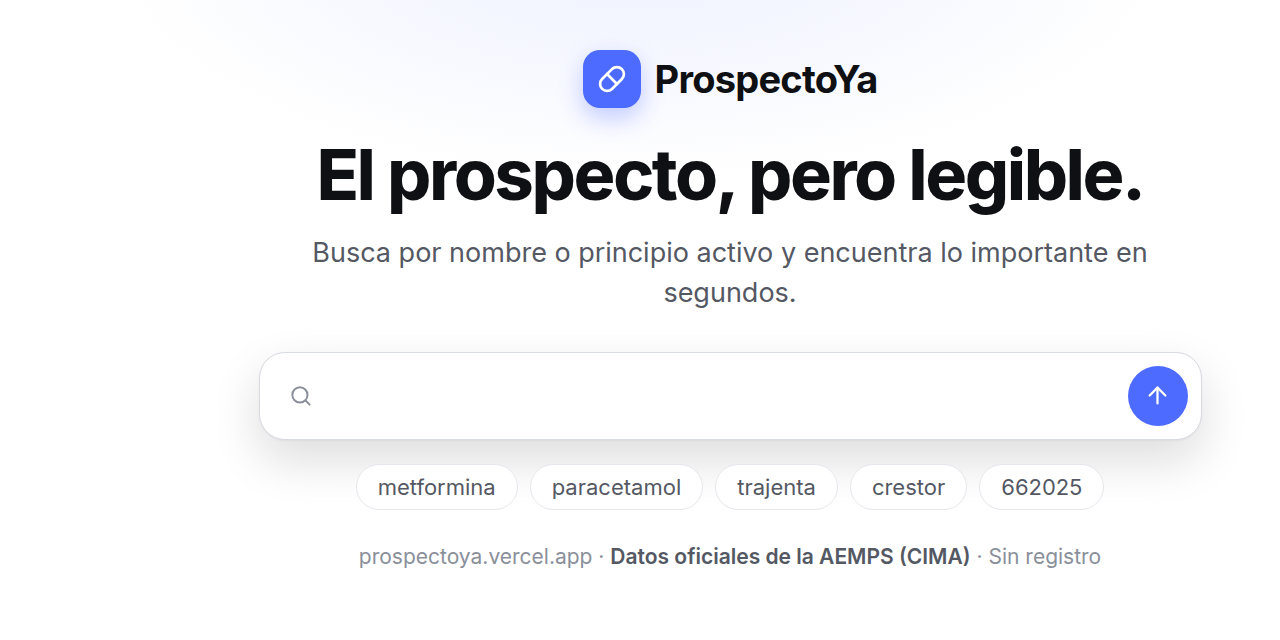
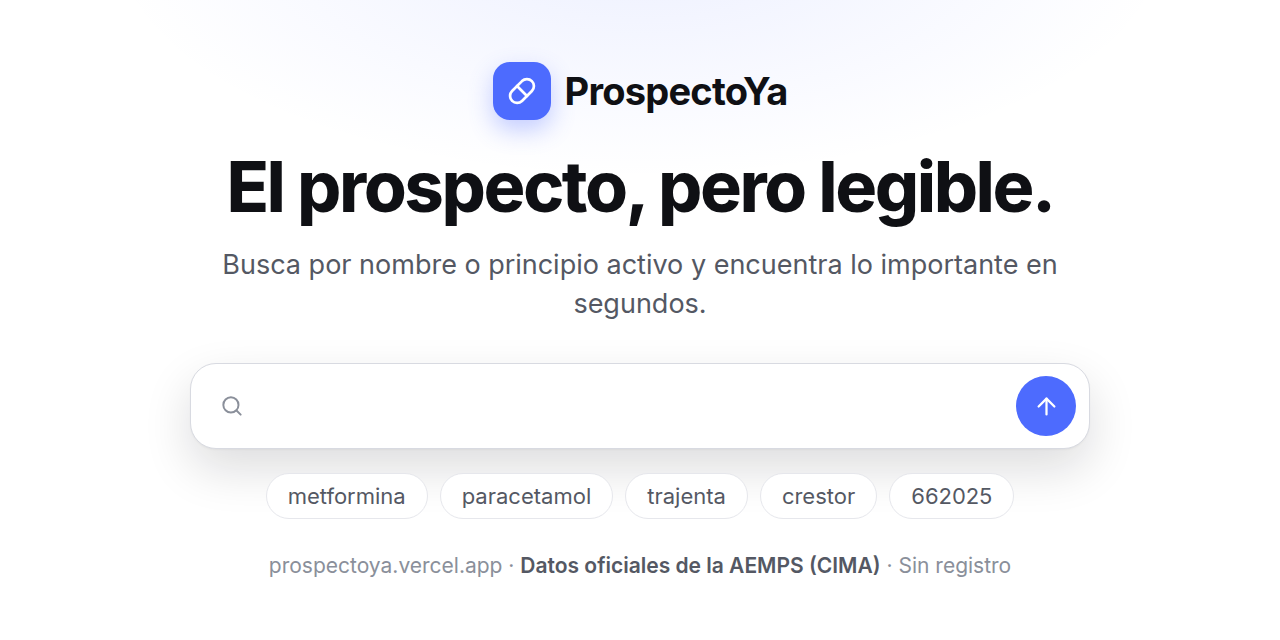
fix(compartir): centra la tarjeta del social preview
La tarjeta salia 90px a la derecha: a la maqueta le faltaba el reset
`* { box-sizing: border-box }` que si tiene styles.css, asi que .lienzo medía 1280
mas sus 180px de padding dentro de un lienzo de 1280 con overflow:hidden, y el
contenido se centraba en x=730. Medido con Chrome: los seis bloques iban a +90px
del centro de la IMAGEN y el lienzo a 1460x661.

- El aire vertical tambien estaba descompensado (51 arriba / 72 abajo) porque el
  primer bloque es un cuadrado y el ultimo es texto con su interlineado: se
  compensa con 21px de padding arriba. Ahora 61,9 / 61,9.
- test-paginas.js mide la maqueta con Chrome: lienzo 1280x640, los seis bloques
  centrados (0,5 px, respecto al centro de la IMAGEN, no al del .lienzo) y el aire
  equilibrado. Comprobado que sin el box-sizing falla dos veces (1460x661 y los
  seis a +90px).
- El PNG se regenera con el comando documentado; no hay que subir VERSION en
  sw.js porque la tarjeta no esta en la cascara (nunca se cachea).

diff --git a/tests/test-paginas.js b/tests/test-paginas.js
@@ -7,12 +7,15 @@
  *    existente, enlace a la ayuda que resuelve, y el tema elegido se guarda.
  *  - ayuda.html: sin errores, hereda el tema de la otra página (misma clave de
  *    localStorage), el botón funciona y el enlace al repositorio va al final.
+ *  - la maqueta del social preview: el lienzo mide 1280x640 y los bloques (marca,
+ *    titular, entradilla, buscador, chips y cierre) van centrados, con el mismo
+ *    aire arriba y abajo. Se sirve aquí para poder medirla con Chrome.
  *
  *   cd tests && node test-paginas.js
  */
 const fs = require("fs");
 const path = require("path");
-const { comprobar, resumen, leer, carpetaTemporal, copiar, navegador, domConChrome, leerDiag, campos, servirHttp } = require("./util");
+const { RAIZ, comprobar, resumen, leer, carpetaTemporal, copiar, navegador, domConChrome, leerDiag, campos, servirHttp } = require("./util");
 
 if (!navegador()) {
   console.log("OMITIDO: no encuentro Chrome/Chromium (define la variable CHROME con la ruta al ejecutable)");
@@ -125,6 +128,35 @@ const DIAG_AYUDA = `
   </script>
 `;
 
+// La maqueta del social preview (tests/maqueta-social-preview.html) se mide
+// aquí porque es donde hay Chrome: la tarjeta se genera a mano desde ella, así
+// que lo que se comprueba es que no se desmonte. Ya pasó una vez: sin
+// `box-sizing: border-box` (que sí tiene styles.css) el .lienzo medía 1280 más
+// sus 180px de padding, y la tarjeta salía 90px hacia la derecha.
+const DIAG_TARJETA = `
+  <pre id="diag" style="display:none"></pre>
+  <script>
+    const diag = document.getElementById("diag");
+    const log = (m) => { diag.textContent += m + "\\n"; };
+    const caja = (selector) => document.querySelector(selector).getBoundingClientRect();
+
+    window.addEventListener("load", () => {
+      const lienzo = caja(".lienzo");
+      // El centro bueno es el de la IMAGEN (el viewport), no el del .lienzo: si
+      // el padding lo estira, comparando con su propio centro no se vería nada.
+      const centro = window.innerWidth / 2;
+      log("lienzo=" + lienzo.width.toFixed(1) + "x" + lienzo.height.toFixed(1));
+      for (const [nombre, selector] of [["marca", ".marca"], ["h1", "h1"], ["entradilla", ".entradilla"], ["buscador", ".buscador"], ["chips", ".chips"], ["cierre", ".cierre"]]) {
+        const c = caja(selector);
+        log("desfase_" + nombre + "=" + (c.x + c.width / 2 - centro).toFixed(1));
+      }
+      log("aire_arriba=" + caja(".marca").y.toFixed(1));
+      log("aire_abajo=" + (lienzo.y + lienzo.height - (caja(".cierre").y + caja(".cierre").height)).toFixed(1));
+      log("listo=si");
+    });
+  </script>
+`;
+
 (async () => {
   const sitio = carpetaTemporal("paginas");
   copiar(sitio, FICHEROS);
@@ -136,6 +168,14 @@ const DIAG_AYUDA = `
   ]) {
     fs.writeFileSync(path.join(sitio, fichero), leer(fichero).replace("</body>", `${driver}</body>`));
   }
+
+  // La maqueta de la tarjeta social también se sirve (con su fuente) para poder
+  // medirla con Chrome, igual que las páginas.
+  fs.copyFileSync(path.join(RAIZ, "tests/inter-latin.woff2"), path.join(sitio, "inter-latin.woff2"));
+  fs.writeFileSync(
+    path.join(sitio, "maqueta.html"),
+    leer("tests/maqueta-social-preview.html").replace("</body>", `${DIAG_TARJETA}</body>`)
+  );
 
   const { url, cerrar } = await servirHttp(sitio);
 
@@ -172,6 +212,22 @@ const DIAG_AYUDA = `
     comprobar("tabla de atajos con 4 filas", ayuda.atajos === "4", ayuda.atajos);
     comprobar("cita la fuente de datos (AEMPS)", ayuda.cita_aemps === "si", ayuda.cita_aemps);
     comprobar("y el logo también está centrado aquí", centrado(ayuda.logo_desfase), ayuda.logo_desfase);
+
+    console.log("--- maqueta del social preview (1280x640) ---");
+    const tarjeta = campos(leerDiag(await domConChrome(`${url}/maqueta.html`, { ancho: 1280, alto: 640, presupuesto: 4000 })));
+    const bloques = ["marca", "h1", "entradilla", "buscador", "chips", "cierre"];
+    comprobar("la maqueta se mide entera", tarjeta.listo === "si", Object.keys(tarjeta).join(" "));
+    comprobar("el lienzo mide 1280x640 (el padding no lo estira)", tarjeta.lienzo === "1280.0x640.0", tarjeta.lienzo);
+    comprobar(
+      "los seis bloques van centrados (±0,5 px)",
+      bloques.every((nombre) => Math.abs(Number(tarjeta["desfase_" + nombre])) <= 0.5),
+      bloques.map((nombre) => `${nombre}:${tarjeta["desfase_" + nombre]}`).join(" ")
+    );
+    comprobar(
+      "el aire de arriba y el de abajo están equilibrados (±2 px)",
+      Math.abs(Number(tarjeta.aire_arriba) - Number(tarjeta.aire_abajo)) <= 2,
+      `${tarjeta.aire_arriba} / ${tarjeta.aire_abajo}`
+    );
   } finally {
     cerrar();
   }

diff --git a/tests/maqueta-social-preview.html b/tests/maqueta-social-preview.html
@@ -40,6 +40,12 @@
       --font: "Inter", system-ui, -apple-system, "Segoe UI", Roboto, "Helvetica Neue", Arial, sans-serif;
     }
 
+    /* El mismo reset que styles.css (línea 84). Sin esto, .lienzo mide 1280 más
+       sus 180px de padding (box-sizing content-box) dentro de un lienzo de 1280
+       con overflow:hidden: el contenido se centra en x=730 y la tarjeta sale
+       90px desplazada a la derecha. No quitar. */
+    * { box-sizing: border-box; }
+
     /* El lienzo es exactamente lo que se captura: 1280×640 */
     html, body { margin: 0; width: 1280px; height: 640px; overflow: hidden; }
     body {
@@ -55,7 +61,11 @@
       flex-direction: column;
       align-items: center;
       justify-content: center;
-      padding: 0 90px;
+      /* 21px de aire de más arriba: el primer bloque es un cuadrado (su tinta
+         llega al borde de la caja) y el último es texto (con su interlineado
+         debajo), así que centrando las cajas quedaban 21px de más abajo.
+         Medido sobre la tinta del PNG: sin esto, 51 arriba y 72 abajo. */
+      padding: 21px 90px 0;
     }
 
     /* --- Marca (igual que .brand de styles.css) --- */

diff --git a/tests/README.md b/tests/README.md
@@ -37,7 +37,7 @@ También se pueden lanzar directamente, que es útil al depurar:
 |---|---|---|
 | `test-html.js` | Estructura de las dos páginas: cabeceras, `meta description`, los 4 iconos, `styles.css`, `tema.js`, que todos los `<script src>` existen, las metaetiquetas `og:`/`twitter:` y el contenido y los enlaces de la ayuda (incluido que el repositorio es el último enlace). | Node + jsdom |
 | `test-busqueda.js` | El buscador completo en jsdom con `fetch` simulado: autocompletado con *debounce*, teclado (↑ ↓ Enter Esc), búsqueda por CN y por nº de registro, aviso con códigos incompletos, CN en diferido (una sola petición por `nregistro`, caché reutilizada) y CN de todos los envases en la ficha. | Node + jsdom |
-| `test-paginas.js` | Las dos páginas en Chrome real, servidas por HTTP (como en Vercel): sin errores de JS, `og:image` absoluta y con el fichero presente, enlace a la ayuda con HTTP 200, el tema se guarda y **se mantiene al pasar de una página a otra** (mismo perfil de Chrome), que la **cápsula del logo quede centrada** en su cuadrado (medido con `getBBox`), y la ayuda se lee como se espera. | Chrome/Chromium |
+| `test-paginas.js` | Las dos páginas en Chrome real, servidas por HTTP (como en Vercel): sin errores de JS, `og:image` absoluta y con el fichero presente, enlace a la ayuda con HTTP 200, el tema se guarda y **se mantiene al pasar de una página a otra** (mismo perfil de Chrome), que la **cápsula del logo quede centrada** en su cuadrado (medido con `getBBox`), y la ayuda se lee como se espera. Mide también la **maqueta del social preview**: el lienzo tiene que medir 1280×640 y los seis bloques ir centrados (±0,5 px), con el mismo aire arriba y abajo. | Chrome/Chromium |
 | `test-pwa.js` | Que la web se pueda **instalar como app** y funcione **sin conexión**: el manifest (JSON válido, `standalone`, colores que coinciden con `styles.css` y los iconos de 192 y 512 px), los iconos de verdad (los `maskable` opacos y con la marca dentro del 80% central que recortan los lanzadores), `sw.js` (cáscara completa, nada de la API de CIMA), el aviso de **versión nueva** con el `pwa.js` real en jsdom (avisa si la versión cambia, y **no** avisa si sólo cambia el control), y en Chrome real: registro, `clients.claim`, precache de la cáscara y una pasada **con el servidor apagado** en la que la página se sigue abriendo. | Node + jsdom + Chrome/Chromium |
 | `test-arriba.js` | El **botón de "volver arriba"** en las dos páginas: arranca oculto, aparece al bajar, al pulsarlo se le pide a la ventana subir al principio (`window.scrollTo` con `top: 0`, con y sin `prefers-reduced-motion`), el foco no se pierde, la URL no cambia y no se solapa con el aviso de versión. | Chrome/Chromium |
 | `test-movil.js` | El buscador en un viewport de móvil (390×844): el campo mide 16px o más —por debajo, los móviles amplían la página al enfocarlo y molesta al escribir—, el viewport no prohíbe el zoom, el compositor no amplía al doble toque y la página no desborda a lo ancho. | Chrome/Chromium |
@@ -78,6 +78,11 @@ google-chrome --headless --window-size=1280,640 --hide-scrollbars \
   instaladas ni de que haya red al generar.
 - `test-html.js` compara la maqueta con la página: si cambian el titular, la
   entradilla o los chips en `index.html` y la tarjeta no se rehace, avisa.
+- `test-paginas.js` la mide con Chrome: el lienzo tiene que medir **1280×640** y
+  los seis bloques ir centrados (±0,5 px), con el aire de arriba y el de abajo
+  equilibrados. Ahí se pillaría, por ejemplo, que falte el
+  `* { box-sizing: border-box }` (sin él, `.lienzo` mide 1280 más sus 180px de
+  padding y **toda la tarjeta sale 90px a la derecha**).
 - `test-arriba.js` **no mide dónde acaba la página**: una animación de subida no
   es cosa de un test. El driver espía `window.scrollTo` y comprueba qué se le
   pide a la ventana (`top` y `behavior`), que es lo que decide el código.

diff --git a/CHANGELOG.md b/CHANGELOG.md
@@ -35,7 +35,11 @@ y `Eliminado` (solo los que apliquen).
   actuales, y su maqueta vive en `tests/maqueta-social-preview.html` (con la
   tipografía Inter en un fichero local), para poder rehacerla cuando cambie la
   interfaz. `og:title`, `twitter:title` y `og:image:alt` se han puesto a juego
-  con el titular nuevo.
+  con el titular nuevo. La tarjeta va **centrada** (la maqueta necesita el
+  `* { box-sizing: border-box }` de `styles.css` y 21px de aire de más arriba) y
+  `test-paginas.js` lo mide con Chrome en las dos direcciones: el lienzo a
+  1280×640, los seis bloques a ±0,5 px del centro de la imagen y el aire de
+  arriba y abajo equilibrado.
 - **La cáscara de la PWA sube a `v8`** en `sw.js` (por los cambios de las páginas,
   los textos y los estilos): quien tenga la web abierta verá el aviso de "versión
   nueva" y el caché anterior se borra al activarse.
